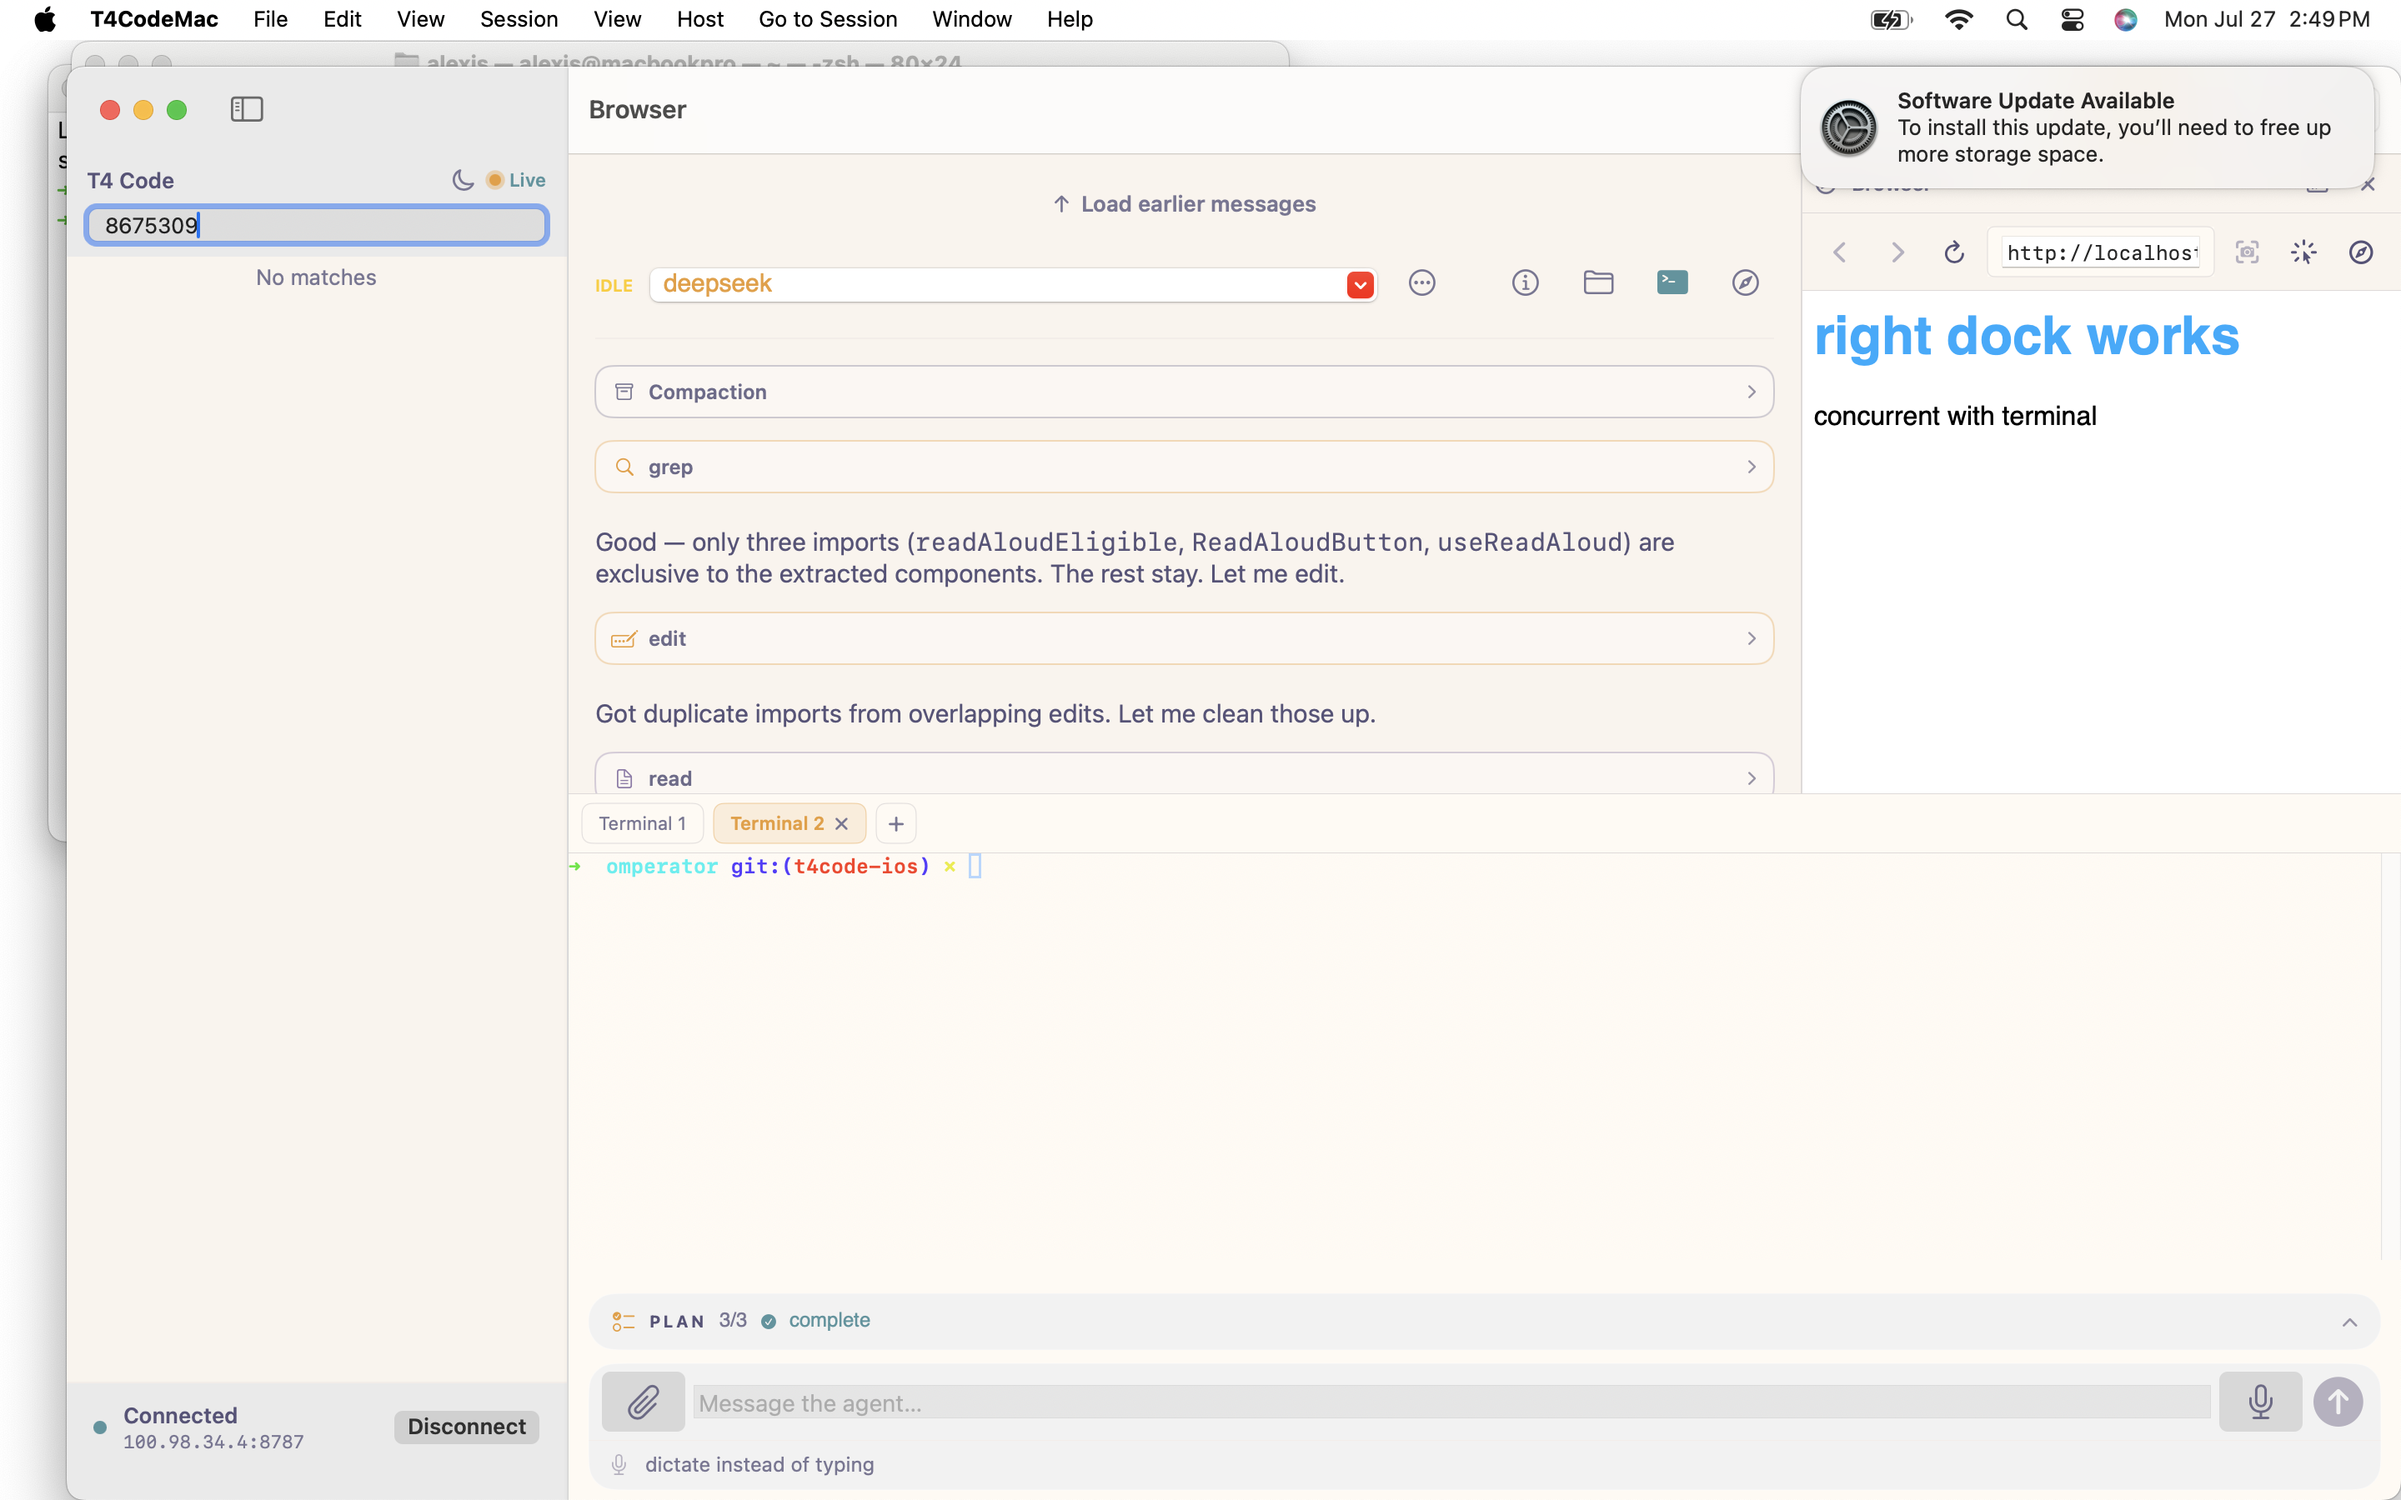
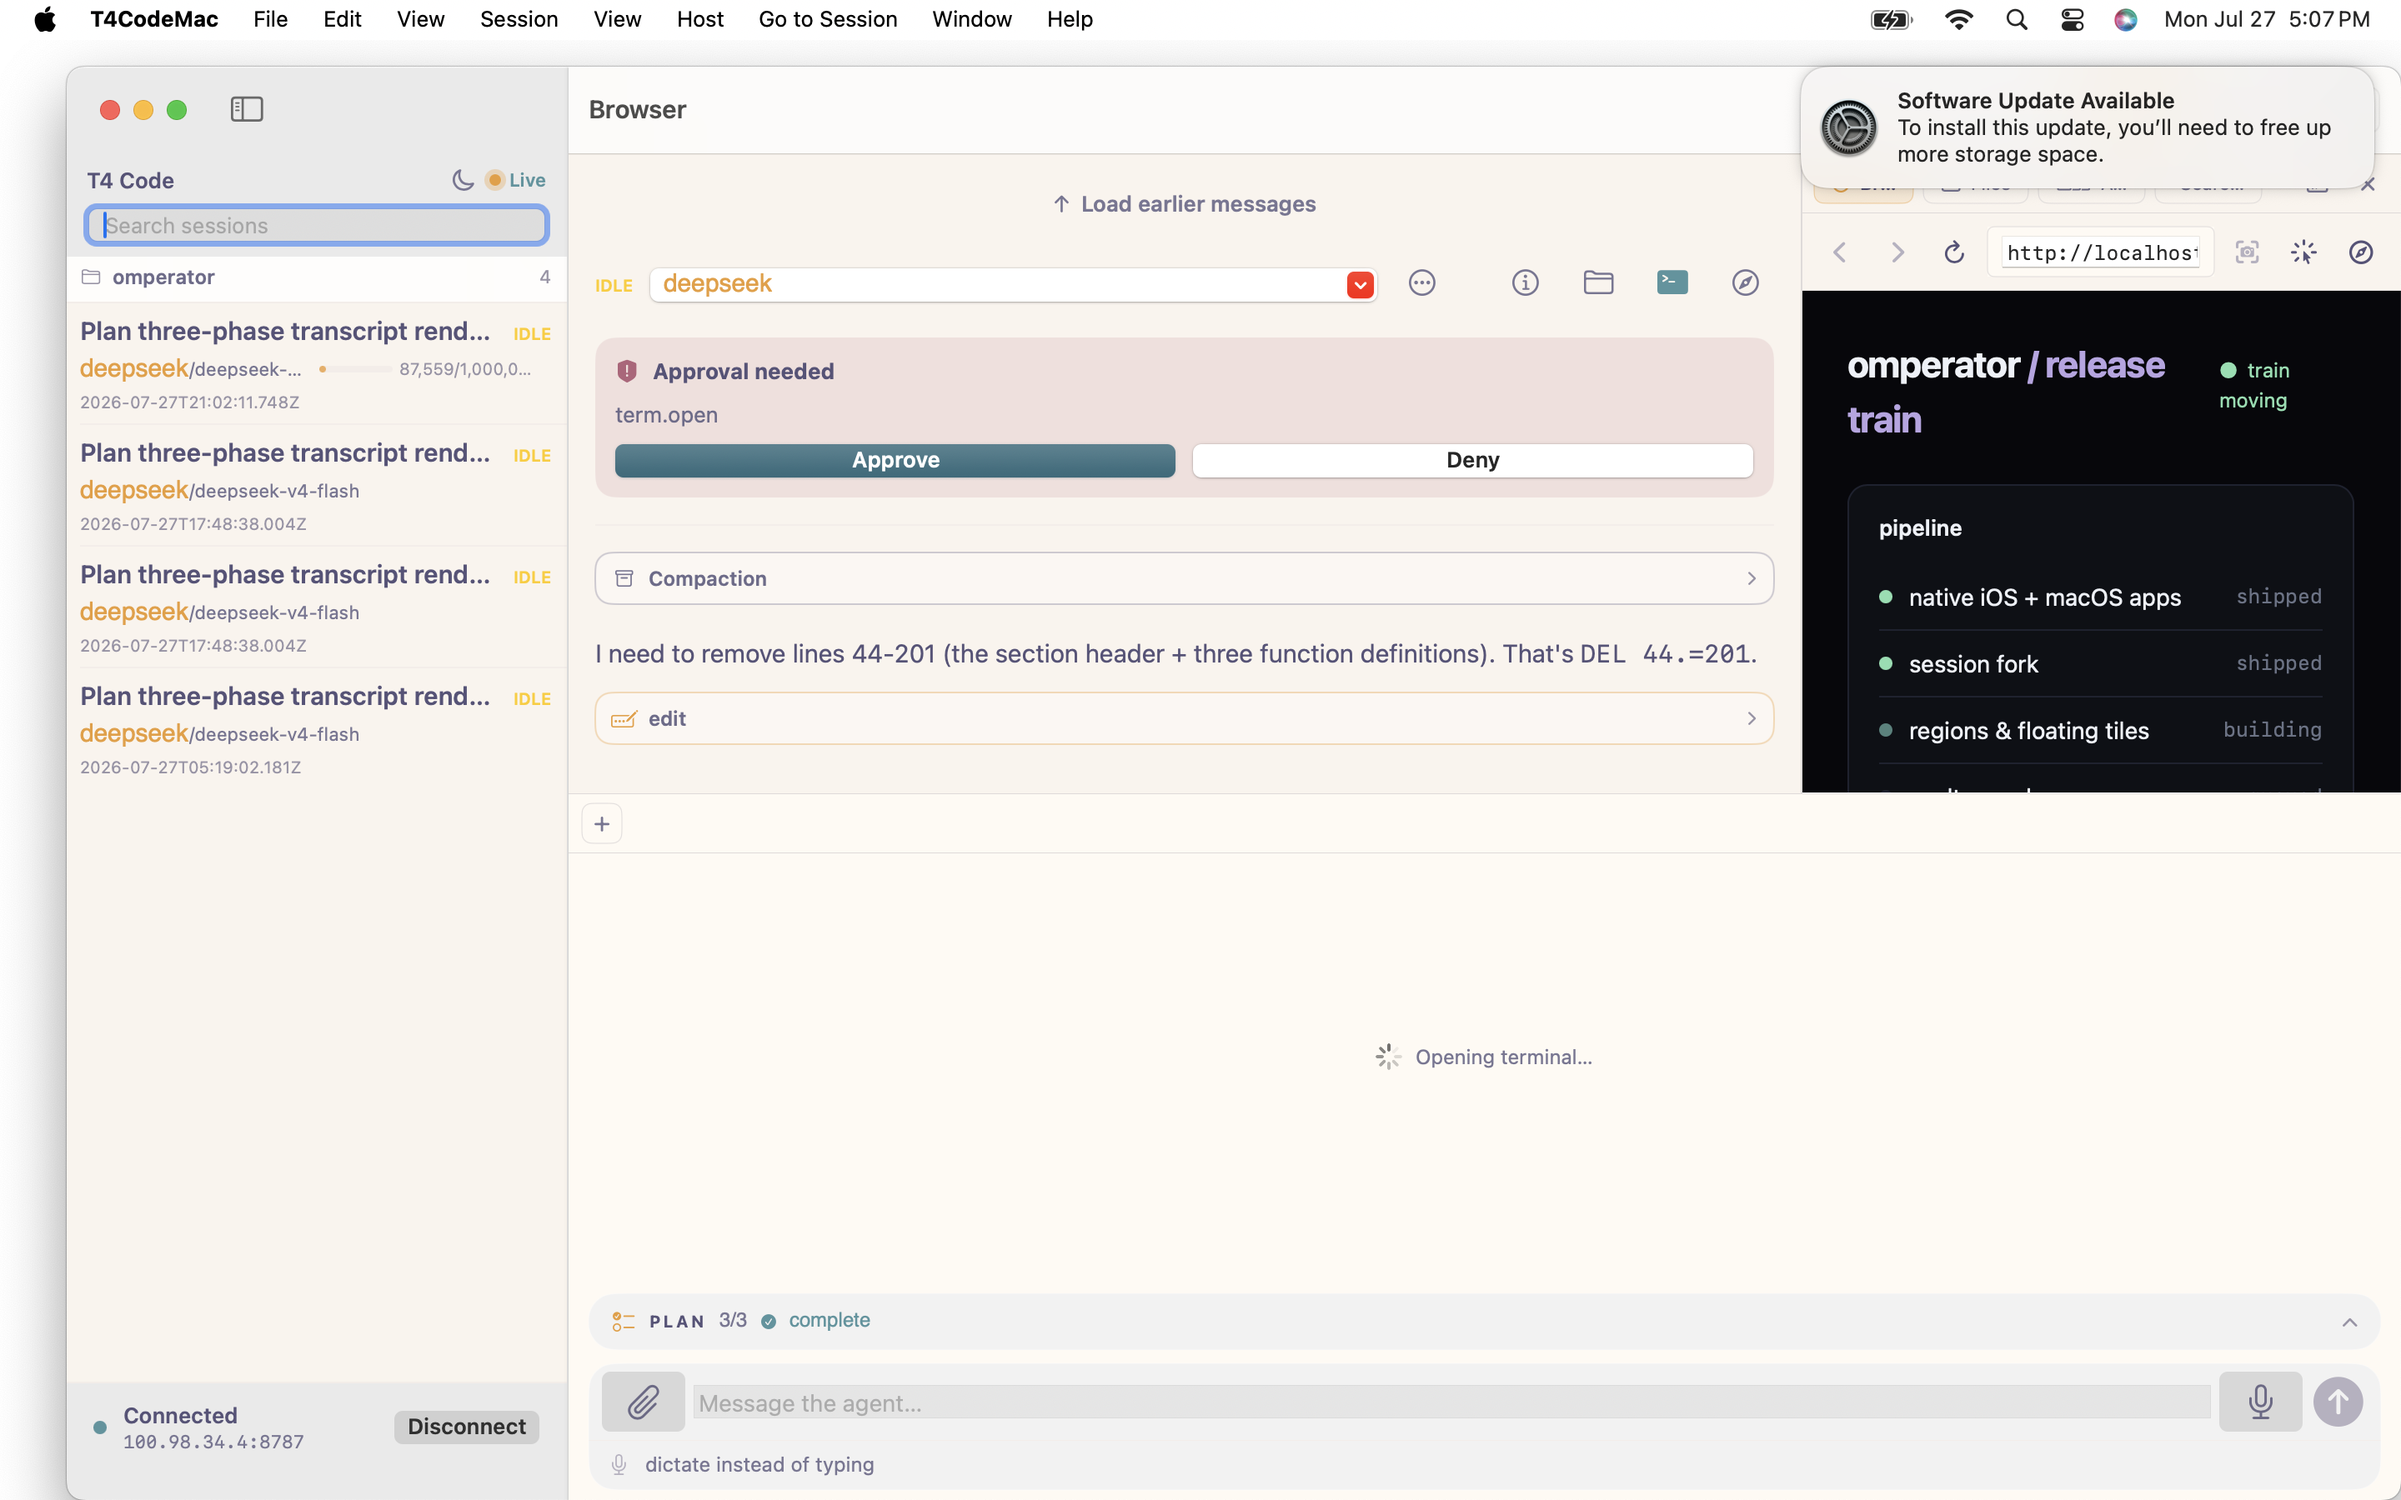
showcase v3: merged sections, no cmux refs, full feature list, agent streaming + cool browser example
- facts: 'everything in this build' (regions, floating, settings, fork,
  design mode, gallery, unread, mouse, wss, preview, TUI)
- iOS carousel: agent streaming slide (live turn, stop affordance)
- macOS carousel: floating tile slide; browser slide shows the release-train
  dashboard demo page on both platforms
- new-layout section merged into macOS/iOS sources

diff --git a/showcase/index.html b/showcase/index.html
@@ -273,24 +273,19 @@ all speaking the same <code>omp-app/1</code> wire to your <code>t4-host</code>, 
 	<div class="swatch"><div class="chip" style="background:#86e0b0"></div><div class="name">ok</div><div class="hex">#86e0b0</div></div>
 </div>
 
-<h2><span class="dot">●</span> new this cycle — regions, settings & cmux parity</h2>
+<h2><span class="dot">●</span> everything in this build</h2>
 <div class="facts">
 	<div class="fact"><span class="k">regions</span><div>Every pane is a tile: right dock (browser, files, agents, review) concurrent with the transcript and the bottom terminal. Per-session layouts persist.</div></div>
 	<div class="fact"><span class="k">floating</span><div>Any tile pops out into its own floating panel on macOS — and docks back with one click.</div></div>
 	<div class="fact"><span class="k">settings</span><div>Full OMP settings from the app: models per agent role, thinking level, approval mode, provider keys (masked), wss pinning, theme. Writes are confirmed and revision-checked.</div></div>
-	<div class="fact"><span class="k">fork</span><div>Branch any session into a full-history copy — from the rail row menu, the session menu, or the TUI (<code>f</code>).</div></div>
+	<div class="fact"><span class="k">fork</span><div>Branch any session into a full-history copy — rail row menu, session menu, or the TUI (<code>f</code>).</div></div>
 	<div class="fact"><span class="k">design mode</span><div>Annotate an element in the browser pane, add a note, and a structured prompt lands in the composer.</div></div>
 	<div class="fact"><span class="k">gallery</span><div>The files pane shows real image thumbnails with a full-screen preview.</div></div>
 	<div class="fact"><span class="k">unread</span><div>Accent dots on rail rows with new activity; <code>⌘⌥U</code> cycles unread sessions on macOS.</div></div>
+	<div class="fact"><span class="k">unread</span><div>Terminal mouse reporting — htop, vim, lazygit take clicks and scrolls.</div></div>
+	<div class="fact"><span class="k">wss</span><div>Pinned TLS alongside plain ws on the tailnet — TOFU fingerprint in the Keychain, published on <code>/healthz</code>.</div></div>
+	<div class="fact"><span class="k">preview</span><div>Host-side headless-Chromium preview service: launch, navigate, capture, click/type/scroll, leases — all 22 commands.</div></div>
 	<div class="fact"><span class="k">t4 tui</span><div>The whole product in a terminal: rail, live transcript, composer, fork — one self-contained binary.</div></div>
-</div>
-
-<h2><span class="dot">●</span> the new layout</h2>
-<div class="grid">
-	<div class="card"><img src="../screenshots/region-hero.png" alt="region layout"><div class="body"><span class="tag tag-mac">macOS</span><h3>Regions</h3><p>Browser right dock, terminal bottom, transcript center — all live at once.</p></div></div>
-	<div class="card"><img src="../screenshots/floating-tile.png" alt="floating tile"><div class="body"><span class="tag tag-mac">macOS</span><h3>Floating tiles</h3><p>Pop any pane into its own window; Dock Back returns it.</p></div></div>
-	<div class="card"><img src="../screenshots/settings-full.png" alt="settings"><div class="body"><span class="tag tag-mac">macOS</span><h3>Real settings</h3><p>Models per role, behavior, masked keys, connection, appearance.</p></div></div>
-	<div class="card"><img src="../screenshots/region-ios.png" alt="iOS right slide-over"><div class="body"><span class="tag tag-ios">iOS</span><h3>Right slide-over</h3><p>The same dock model, as a right-edge overlay on the phone.</p></div></div>
 </div>
 
 <h2><span class="dot">●</span> iOS</h2>
@@ -300,6 +295,7 @@ all speaking the same <code>omp-app/1</code> wire to your <code>t4-host</code>, 
 		<figure class="car-slide"><img src="../screenshots/feature-01-onboarding.png" alt="onboarding"><figcaption><b>Onboarding</b> — pair a host with a code, QR, or deep link.</figcaption></figure>
 		<figure class="car-slide"><img src="../screenshots/feature-02-rail.png" alt="session rail"><figcaption><b>Session rail</b> — swipe-right drawer, project groups, unread dots.</figcaption></figure>
 		<figure class="car-slide"><img src="../screenshots/feature-03-session.png" alt="session"><figcaption><b>Live transcript</b> — real-time entries, streaming.</figcaption></figure>
+		<figure class="car-slide"><img src="../screenshots/agent-ios.png" alt="agent streaming"><figcaption><b>Agent streaming</b> — a live turn mid-response, with stop affordance.</figcaption></figure>
 		<figure class="car-slide"><img src="../screenshots/feature-04-inbox.png" alt="inbox"><figcaption><b>Inbox</b> — everything that needs attention, one tap away.</figcaption></figure>
 		<figure class="car-slide"><img src="../screenshots/feature-05-plan.png" alt="plan"><figcaption><b>Plan panel</b> — phase progress inline in the session.</figcaption></figure>
 		<figure class="car-slide"><img src="../screenshots/feature-06-ask.png" alt="ask"><figcaption><b>Approvals</b> — ask cards for plan review and confirmations.</figcaption></figure>
@@ -327,6 +323,7 @@ all speaking the same <code>omp-app/1</code> wire to your <code>t4-host</code>, 
 		<figure class="car-slide"><img src="../screenshots/mac-03-agents.png" alt="agents"><figcaption><b>Agents</b> — subagent roster.</figcaption></figure>
 		<figure class="car-slide"><img src="../screenshots/mac-04-terminal.png" alt="terminal"><figcaption><b>Terminal</b> — host PTY, docked, live.</figcaption></figure>
 		<figure class="car-slide"><img src="../screenshots/region-hero.png" alt="browser right dock"><figcaption><b>Browser</b> — right dock, live and concurrent with the terminal.</figcaption></figure>
+		<figure class="car-slide"><img src="../screenshots/floating-tile.png" alt="floating tile"><figcaption><b>Floating tiles</b> — pop any pane into its own window; Dock Back returns it.</figcaption></figure>
 		<figure class="car-slide"><img src="../screenshots/mac-10-searchdiff.png" alt="search and diff"><figcaption><b>Search & diff</b> — right dock, find any file in the workspace.</figcaption></figure>
 		<figure class="car-slide"><img src="../screenshots/mac-06-plan.png" alt="plan"><figcaption><b>Plan panel</b> — phase tracking inline.</figcaption></figure>
 		<figure class="car-slide"><img src="../screenshots/mac-07-ask.png" alt="ask"><figcaption><b>Plan review</b> — approvals with real shortcuts.</figcaption></figure>
